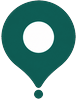
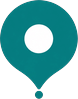
Pinos de 09/10 do Simão, sem mexer no desenho
«pino recolha final-2» e «O prino destino final-2», transparentes, com as
cores dele (sem repintar). Âncora e corte da mira passam a ser POR PINO
(recolha 0,9576 / corte 0,909; destino 0,9661 / corte 0,923): o ponto do
destino é mais pequeno e um número só já não servia aos dois. O guião
passa a encaixar nas duas medidas — ajustado só pela altura, o desenho
novo saía com os lados cortados. O «estás aqui» do motorista é refeito do
pino de destino novo.

diff --git a/mobile/src/components/MapaGoogle.js b/mobile/src/components/MapaGoogle.js
@@ -163,7 +163,7 @@ const AQUI_IMAGEM = {
   carry: require('../../assets/mapa/aqui-carry.png'),
 };
 // Aponta pelo ponto de baixo, como o pino de destino (medido pelo guião).
-const ANCORA_AQUI_Y = 0.952;
+const ANCORA_AQUI_Y = 0.9661; // o mesmo do pino de destino (09/10)
 // O ponto onde o carro encosta. IMAGEM e não vista por cima do mapa: uma
 // vista tem de ser recolocada a cada movimento, e recolocar depois do
 // movimento é vê-la a flutuar durante ele. Um marcador com imagem é
@@ -332,7 +332,13 @@ const ALTERNATIVA_PERTO_M = 300;
 // `scripts/recortar-pinos-novos.py`: o ponto de baixo é maior e o centro dele
 // sobe — recolha 0,9492, destino 0,9520. Um número para os dois, o do meio:
 // fica a menos de 0,1 ponto de cada um.)
+// (E os de 09/10, que ele quis SEM mexer no desenho: o ponto do destino é
+// mais pequeno e fica mais em baixo — recolha 0,9576, destino 0,9661. Aqui
+// um número só já errava 0,5 pt; passa a haver UM POR PINO. A paragem
+// mantém o desenho e o número de antes.)
 const ANCORA_Y = 0.9506;
+const ANCORA = { origem: 0.9576, destino: 0.9661 };
+const ancoraDe = (qual) => ANCORA[qual] ?? ANCORA_Y;
 
 // QUANTO A MIRA SOBE PARA A PONTA CAIR NO CENTRO DO ECRÃ.
 //
@@ -418,7 +424,8 @@ const MIRA_ESCALA = ESCALA_MARCADOR;
 const MIRA_L = Math.round(PINO_L * MIRA_ESCALA);
 const MIRA_A = Math.round(PINO_A * MIRA_ESCALA);
 
-const SUBIR_MIRA = MIRA_A * (0.5 - ANCORA_Y);
+// Por pino: a mira mostra a recolha ou o destino, e cada um tem a sua ponta.
+const subirMira = (qual) => MIRA_A * (0.5 - ancoraDe(qual));
 
 // A MIRA LEVANTA-SE ENQUANTO O MAPA MEXE (27/09/2026). É o que dá a sensação
 // de que é o mapa a passar por baixo dela, e não ela a arrastar o mapa.
@@ -450,7 +457,9 @@ const MIRA_DESCE_MS = 60;
 // pinos antigos passavam pelo MEIO do ponto, que é maior: metade subia com o
 // corpo e o Simão viu-o partido no Samsung (07/10/2026). AO TROCAR OS PINOS,
 // ATUALIZAR ESTE NÚMERO E O ANCORA_Y.
-const CORTE_DO_PONTO = 0.898;
+// Pinos de 09/10: recolha vão 90,4–91,5%, destino 91,5–93,2% — não há um
+// número que caia nos dois vãos. Um por pino, a meio do vão de cada um.
+const CORTE = { origem: 0.909, destino: 0.923 };
 
 // O cartão com o nome, ao lado do pino.
 //
@@ -936,7 +945,7 @@ export default function MapaGoogle({
     }).start();
   }, [miraNoAr, miraLevantada]);
   // Quanto o corpo sobe acima de onde está pousado. A posição de repouso —
-  // a ponta no centro exacto do ecrã — é da caixa de fora (`SUBIR_MIRA`).
+  // a ponta no centro exacto do ecrã — é da caixa de fora (`subirMira`).
   const miraSobe = miraLevantada.interpolate({
     inputRange: [0, 1],
     outputRange: [0, -MIRA_LEVANTA],
@@ -1930,14 +1939,19 @@ export default function MapaGoogle({
     for (const p of pinosDesenhados) {
       obstaculos.push({
         id: `pino:${p.qual}:${p.lat},${p.lng}`,
-        ...rect(p.x - pl / 2, p.y - pa * ANCORA_Y, pl, pa),
+        ...rect(p.x - pl / 2, p.y - pa * ancoraDe(p.qual), pl, pa),
       });
     }
     // A mira, com a ponta no centro exacto do ecrã.
     if (modoEscolha) {
       obstaculos.push({
         id: 'mira',
-        ...rect(largura / 2 - MIRA_L / 2, altura / 2 - MIRA_A * ANCORA_Y, MIRA_L, MIRA_A),
+        ...rect(
+          largura / 2 - MIRA_L / 2,
+          altura / 2 - MIRA_A * ancoraDe(modoEscolha === 'destino' ? 'destino' : 'origem'),
+          MIRA_L,
+          MIRA_A
+        ),
       });
     }
     // A coluna de botões, e o losango de guiar.
@@ -2097,6 +2111,9 @@ export default function MapaGoogle({
       </View>
     );
   }
+
+  // O pino que a mira mostra: cada um tem a sua ponta e o seu corte.
+  const qualMira = modoEscolha === 'destino' ? 'destino' : 'origem';
 
   return (
     <View
@@ -2462,7 +2479,7 @@ export default function MapaGoogle({
               latitude: p.pino ? p.pino.lat : p.lat,
               longitude: p.pino ? p.pino.lng : p.lng,
             }}
-            anchor={{ x: 0.5, y: ANCORA_Y }}
+            anchor={{ x: 0.5, y: ancoraDe(p.qual) }}
             // ACIMA DAS PARAGENS ALTERNATIVAS (880) e abaixo do veículo em
             // movimento (1000): a ordem entre os NOSSOS desenhos é esta, e
             // agora está escrita em vez de depender da ordem do código.
@@ -2857,15 +2874,21 @@ export default function MapaGoogle({
               cima só mostra o corpo e sobe; a de baixo só mostra o ponto e
               não se mexe. Pousado, as duas juntam-se e é o pino de sempre,
               pixel a pixel. */}
-          <View style={{ width: MIRA_L, height: MIRA_A, transform: [{ translateY: SUBIR_MIRA }] }}>
+          <View
+            style={{
+              width: MIRA_L,
+              height: MIRA_A,
+              transform: [{ translateY: subirMira(qualMira) }],
+            }}
+          >
             <Animated.View
               style={[
                 styles.miraParte,
-                { height: MIRA_A * CORTE_DO_PONTO, transform: [{ translateY: miraSobe }] },
+                { height: MIRA_A * CORTE[qualMira], transform: [{ translateY: miraSobe }] },
               ]}
             >
               <Image
-                source={IMAGEM[modoEscolha === 'destino' ? 'destino' : 'origem']}
+                source={IMAGEM[qualMira]}
                 style={{ width: MIRA_L, height: MIRA_A }}
                 resizeMode="contain"
               />
@@ -2873,12 +2896,12 @@ export default function MapaGoogle({
             <View
               style={[
                 styles.miraParte,
-                { top: MIRA_A * CORTE_DO_PONTO, height: MIRA_A * (1 - CORTE_DO_PONTO) },
+                { top: MIRA_A * CORTE[qualMira], height: MIRA_A * (1 - CORTE[qualMira]) },
               ]}
             >
               <Image
-                source={IMAGEM[modoEscolha === 'destino' ? 'destino' : 'origem']}
-                style={{ width: MIRA_L, height: MIRA_A, marginTop: -MIRA_A * CORTE_DO_PONTO }}
+                source={IMAGEM[qualMira]}
+                style={{ width: MIRA_L, height: MIRA_A, marginTop: -MIRA_A * CORTE[qualMira] }}
                 resizeMode="contain"
               />
             </View>

diff --git a/mobile/scripts/recortar-pinos-novos.py b/mobile/scripts/recortar-pinos-novos.py
@@ -2,9 +2,15 @@
 """Os pinos do Simão (07/10/2026): gota com círculo branco e ponto por baixo.
 
 DUAS RONDAS NO MESMO DIA: de manhã com um anel branco; à tarde a versão que
-ele chamou FINAL, com o círculo branco cheio. É esta que vale.
+ele chamou FINAL, com o círculo branco cheio.
 
-ENTRADA  desenho/imagens/Pinos finais 07-10/pino {recolha,destino}.png  (fora do git)
+09/10/2026 — A VERSÃO QUE VALE: «pino recolha final-2» e «O prino destino
+final-2». Vêm já com fundo TRANSPARENTE e, por ordem dele, NÃO SE MEXE no
+desenho: nem forma, nem elementos, nem COR (o teal da recolha é o dele,
+#077F7F aprox., e não é repintado para #0E5C54 como os de 07/10). Só se
+recorta à arte e se reduz ao tamanho.
+
+ENTRADA  desenho/imagens/Pinos finais 09-10/pino {recolha,destino}.png  (fora do git)
 SAÍDA    assets/mapa/pino-{origem,destino}{,-pequeno}{,@2x,@3x}.png
 
 O MESMO TAMANHO DOS ANTERIORES, ao ponto — foi o pedido. Os grandes ficam em
@@ -36,7 +42,7 @@ _spec = importlib.util.spec_from_file_location('icones', os.path.join(AQUI, 'rec
 icones = importlib.util.module_from_spec(_spec)
 _spec.loader.exec_module(icones)
 
-ORIGEM = os.path.abspath(os.path.join(AQUI, '..', '..', 'desenho', 'imagens', 'Pinos finais 07-10'))
+ORIGEM = os.path.abspath(os.path.join(AQUI, '..', '..', 'desenho', 'imagens', 'Pinos finais 09-10'))
 DESTINO = os.path.join(AQUI, '..', 'assets', 'mapa')
 
 # A luminosidade do corpo teal destes desenhos (#017B7A), medida: com ela o
@@ -56,10 +62,10 @@ def arte(ficheiro, teal):
     caminho = os.path.join(ORIGEM, ficheiro)
     if not os.path.exists(caminho):
         raise SystemExit(f'falta o ficheiro: {caminho}')
-    if teal:
-        return icones.sem_preto(caminho, alvo=icones.PINO_TEAL, l_origem=L_CORPO_RECOLHA)
-    # O coral não passa pelo repintar: _teal() não o reconhece, e fica como veio.
-    return icones.sem_preto(caminho)
+    # Desde 09/10/2026 o desenho vem transparente e fica como veio: só se
+    # corta à arte (o `teal` deixou de repintar — ordem dele).
+    im = Image.open(caminho).convert('RGBA')
+    return im.crop(im.getchannel('A').point(lambda v: 255 if v > 8 else 0).getbbox())
 
 
 def ponto_de_baixo(im):
@@ -87,11 +93,15 @@ def vao_do_ponto(im):
 def gravar(im, nome, tamanho):
     w, h = tamanho
     for sufixo, escala in (('', 1), ('@2x', 2), ('@3x', 3)):
-        altura = h * escala
-        largura = round(im.width * altura / im.height)
+        # CABER NAS DUAS MEDIDAS (09/10/2026): os pinos de 09/10 são um pouco
+        # mais largos em proporção, e ajustados só pela altura passavam meio
+        # píxel da tela de cada lado — os lados saíam cortados a direito.
+        # O desenho fica encostado em BAIXO (o ponto do chão), centrado.
+        k = min(w * escala / im.width, h * escala / im.height)
+        largura, altura = round(im.width * k), round(im.height * k)
         reduzida = im.resize((largura, altura), Image.LANCZOS)
-        tela = Image.new('RGBA', (w * escala, altura), (0, 0, 0, 0))
-        tela.paste(reduzida, ((w * escala - largura) // 2, 0), reduzida)
+        tela = Image.new('RGBA', (w * escala, h * escala), (0, 0, 0, 0))
+        tela.paste(reduzida, ((w * escala - largura) // 2, h * escala - altura), reduzida)
         tela.save(os.path.join(DESTINO, f'{nome}{sufixo}.png'))
         if escala == 3:
             final = tela

diff --git a/mobile/scripts/desenhar-pino-aqui.py b/mobile/scripts/desenhar-pino-aqui.py
@@ -10,7 +10,7 @@ SÓ NO MAPA DO PRÓPRIO MOTORISTA. O mesmo marcador mostra ao passageiro o
 motorista a chegar, e aí fica o disco: um pino a andar parecia um destino.
 Ver `vivoComoPino` no MapaGoogle.js.
 
-ENTRADA  desenho/imagens/Pinos finais 07-10/pino destino.png   (fora do git)
+ENTRADA  o pino de destino em vigor (ver recortar-pinos-novos.py: ORIGEM)
          assets/icones/veiculo-{mota,carro,carry}@3x.png        (silhuetas brancas)
 SAÍDA    assets/mapa/aqui-{motorbike,car,carry}{,@2x,@3x}.png   46 × 59, como o pino
 
@@ -48,7 +48,8 @@ VEICULOS = {'motorbike': 'veiculo-mota', 'car': 'veiculo-carro', 'carry': 'veicu
 
 
 def pino_com(veiculo):
-    pino = icones.sem_preto(os.path.join(pinos.ORIGEM, 'pino destino.png')).copy()
+    # O desenho do pino de destino em vigor (recortar-pinos-novos.py).
+    pino = pinos.arte('pino destino.png', False).copy()
     alfa = pino.getchannel('A')
     w, h = pino.size
     # A cabeça do pino: a linha mais larga dá o centro e o raio.
